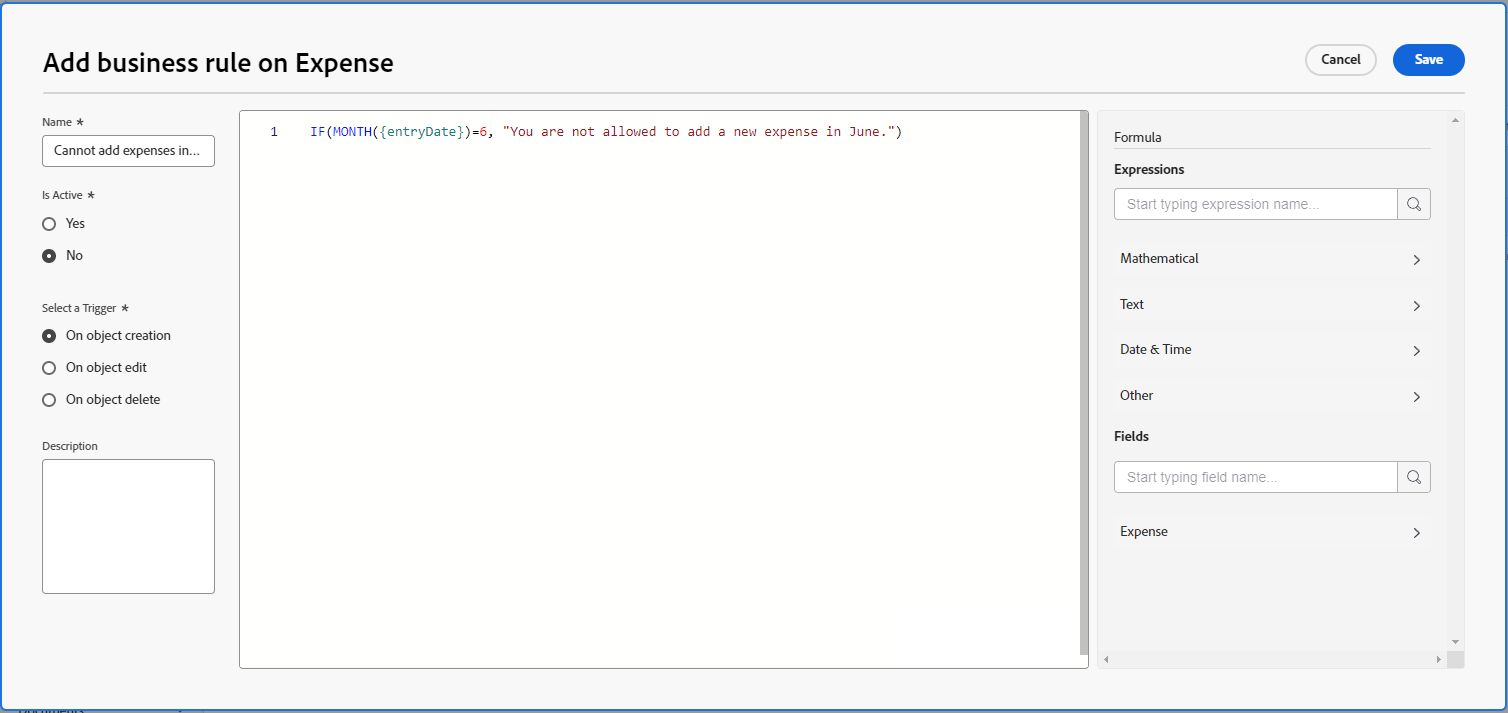
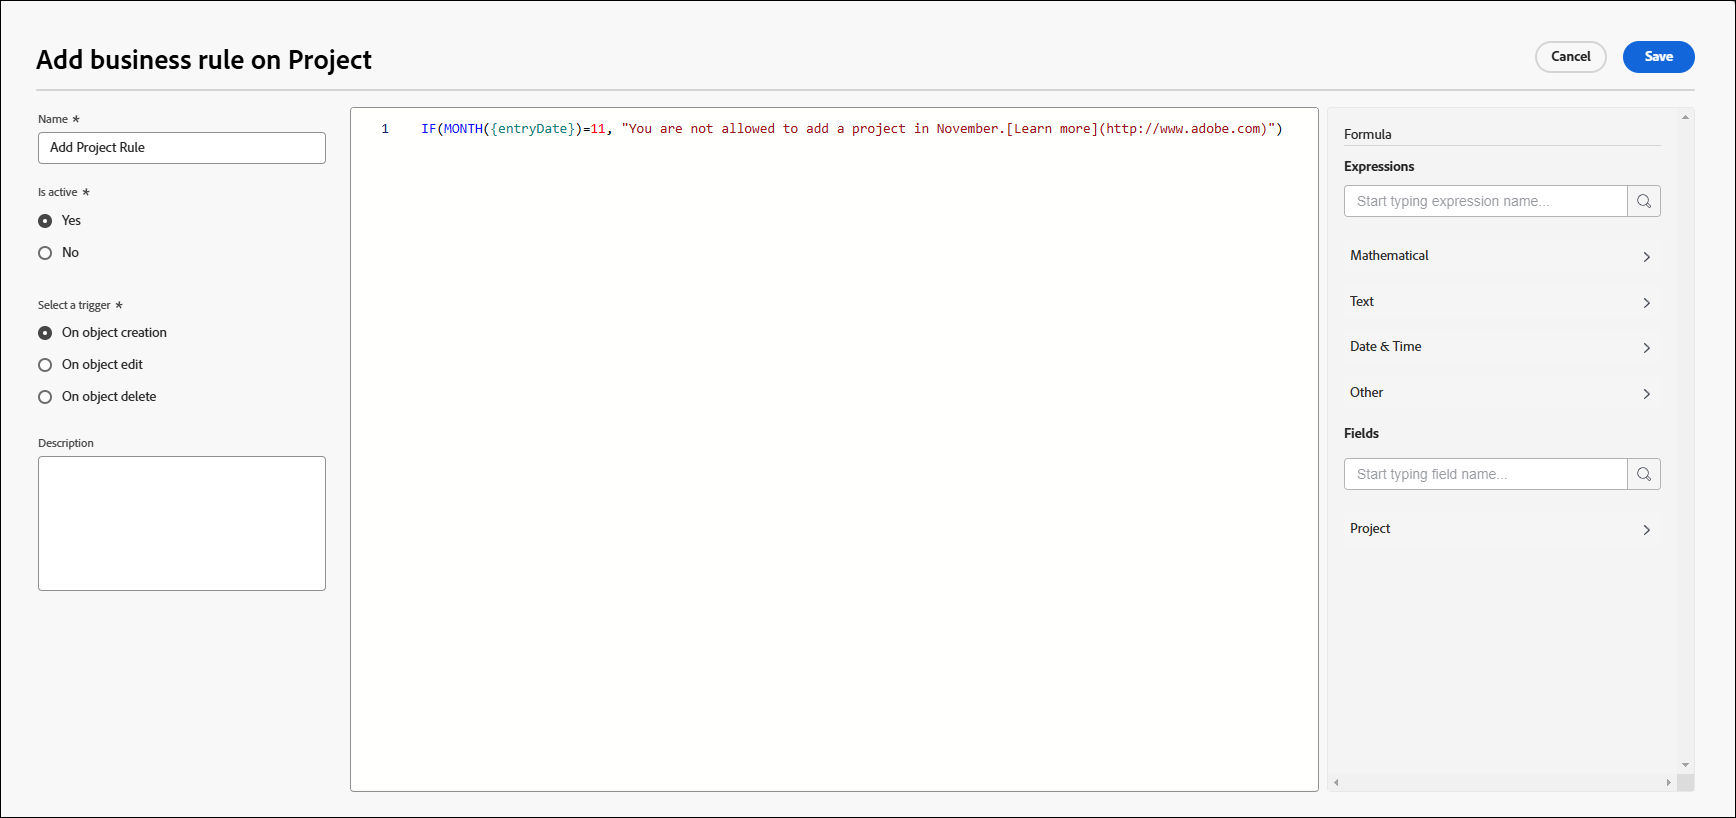
business rule image and highlights in custom forms

diff --git a/help/quicksilver/administration-and-setup/customize-workfront/create-manage-custom-forms/form-designer/design-a-form/design-a-form.md b/help/quicksilver/administration-and-setup/customize-workfront/create-manage-custom-forms/form-designer/design-a-form/design-a-form.md
@@ -836,19 +836,20 @@ This table lists the available native fields for specific Workfront objects in a
       <td><p>(Required) Select a Workfront native field.<p><p>Only native fields for the form's objects are available. For example, if the Object Types list at the top of the form designer shows Project, you will be able to select native fields for projects but not fields that are specific to tasks.</p></td>
      </tr>
      <tr>
-      <td role="rowheader">Add Filter</td>
-      <td><p>Add a filter for the reference field to limit the list of items users can choose from when they are using the field. </p> <p>For example, you could limit a field so that user names can be selected only if they meet the following criteria:</p> 
-       <ul> 
+      <td role="rowheader"><span class="preview">Add Filter</span></td>
+      <td><span class="preview"><p>Add a filter for the reference field to limit the list of items users can choose from when they are using the field. </p> <p>For example, you could limit a field so that user names can be selected only if they meet the following criteria:</p> 
+       <ul>
         <li>They belong to a group or groups that you specify</li> 
         <li>They are associated with a role or job title you specify</li> 
         <li>They belong to the same group as the person using the field</li> 
-       </ul> <p>You must define the filter for the reference field you selected using Text Mode syntax. For information about creating a filter using Text Mode, see <a href="/help/quicksilver/reports-and-dashboards/reports/text-mode/edit-text-mode-in-filter.md">Edit a filter using text mode</a>.</p>
+       </ul>
+       <p>You must define the filter for the reference field you selected using Text Mode syntax. For information about creating a filter using Text Mode, see <a href="/help/quicksilver/reports-and-dashboards/reports/text-mode/edit-text-mode-in-filter.md">Edit a filter using text mode</a>.</p>
        <p><b>NOTE</b>:
        <ul> 
         <li>The filter option is only available when you reference a native typeahead field, such as Portfolio, Company, or Owner.</li>
         <li>If you are editing an existing custom form, adding a filter to a native field does not remove any objects (outside the scope of the filter) that users have already added using the field.</li> 
         <li>This filter is not available on mobile devices. If you use the filter for a native field, the field will appear on users' mobile devices unaffected by the filter.</li> 
-        </ul></p></td> 
+        </ul></p></span></td> 
       <td>
      </tr>
      <tr> 

diff --git a/help/quicksilver/administration-and-setup/set-up-workfront/configure-system-defaults/business-rules.md b/help/quicksilver/administration-and-setup/set-up-workfront/configure-system-defaults/business-rules.md
@@ -130,11 +130,11 @@ IF(
 
      <span class="preview">You can include a static URL in the error message, to link to documentation or other helpful pages to guide the user on how to modify their action within the constraint of the rule.</span>
 
-     <span class="preview">In this example, "Learn more" will link to the URL. `"You are not allowed to add a new expense in June.[Learn more](http://url)"` The URL must be in parentheses, but link text in brackets is not required. You can display the full URL and it will be a clickable link.</span>
+     <span class="preview">In this example, "Learn more" will link to the URL. `"You are not allowed to add a new project in November.[Learn more](http://url)"` The URL must be in parentheses, but link text in brackets is not required. You can display the full URL and it will be a clickable link.</span>
 
    ![Add business rule dialog](assets/add-business-rule-dialog-no-ai-button.png)
 
-   This example is a business rule for expenses. If the current month is June, then users are not permitted to create new expenses, and the message explains this.
+   This example is a business rule for projects. If the current month is November, then users are not permitted to create new projects, and the message explains this.
    
    For more examples of business rules, see [Scenarios for business rules](#scenarios-for-business-rules) in this article.
 
